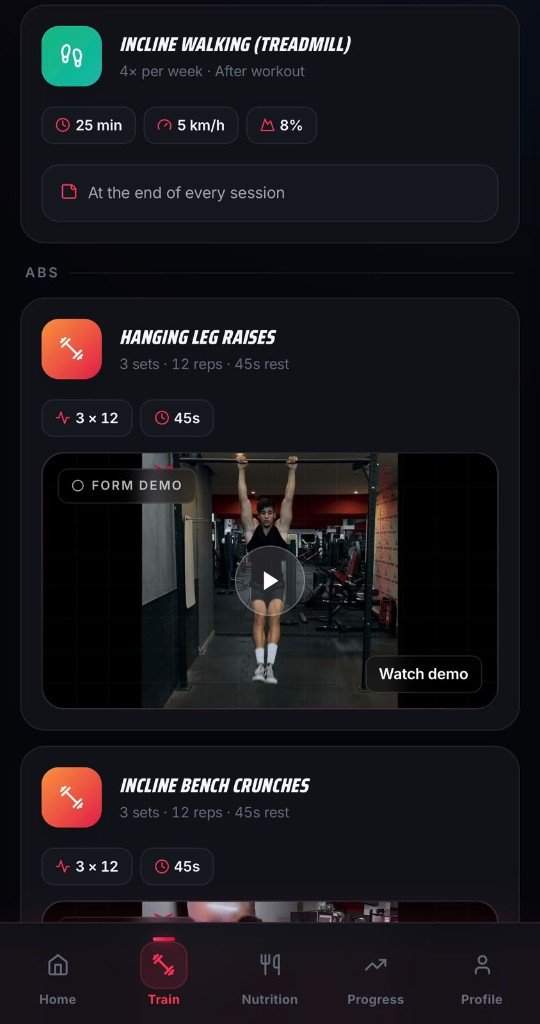
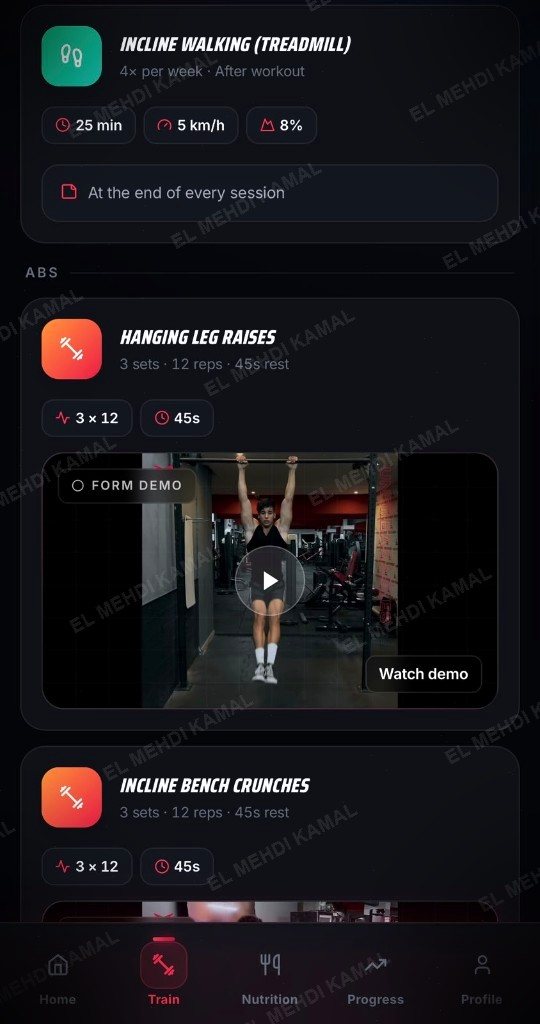
Fix Arabic app-phone label sync, pin framing, and screenshot protection.
Keep carousel order locked so Arabic titles match each screen, pin a stage where the full phone fits, and add light brand watermarks on the app mockups.

Changed region(s): [[0.0593, 0.0, 0.2074, 0.0938], [0.0593, 0.9375, 0.1481, 1.0], [0.8593, 0.9375, 0.9185, 1.0]]

diff --git a/src/components/sections/AppPhonesSection.tsx b/src/components/sections/AppPhonesSection.tsx
@@ -23,7 +23,9 @@ const copy = {
   },
   lead: {
     en: "Most coaches hand you a PDF and disappear. I write the plan and check in with you every day. The app is where you see training, meals, and progress in one place.",
-    ar: isolateLatin("الأغلبية ديال les coachs كيعطيوك PDF وكيخليوك بوحدك. أنا اللي كنقاد البرنامج وكنتابع معاك نهار بنهار. التطبيق غير بلاصة كتلقا فيها التمارين، الماكلة والتقدم ديالك."),
+    ar: isolateLatin(
+      "الأغلبية ديال les coachs كيعطيوك PDF وكيخليوك بوحدك. أنا اللي كنقاد البرنامج وكنتابع معاك نهار بنهار. التطبيق غير بلاصة كتلقا فيها التمارين، الماكلة والتقدم ديالك."
+    ),
     fr: "Une expérience fluide: on suit tes PRs, milestones, poids, photos hebdo, volume d’entraînement et progrès musculaire.",
   },
 } as const;
@@ -32,38 +34,41 @@ const AppPhonesSection = () => {
   const { language, isRTL } = useLanguage();
   const lang = language as "en" | "ar" | "fr";
   const rootRef = useRef<HTMLElement>(null);
+  const pinRef = useRef<HTMLDivElement>(null);
   const trackRef = useRef<HTMLDivElement>(null);
   const [active, setActive] = useState(0);
 
   useEffect(() => {
     const root = rootRef.current;
+    const pin = pinRef.current;
     const track = trackRef.current;
-    if (!root || !track) return;
+    if (!root || !pin || !track) return;
 
     const { gsap, ScrollTrigger } = getGsap();
     const softMotion = prefersReducedMotion();
 
     const ctx = gsap.context(() => {
       const getTravel = () => {
-        // Always move enough to bring the last phone into view
         const overflow = track.scrollWidth - window.innerWidth;
-        return Math.max(overflow + 24, track.scrollWidth * 0.55);
+        return Math.max(overflow + 48, 1);
       };
 
       gsap.set(track, { x: 0, force3D: true });
 
+      // Pin only the phones stage so the full phone frame fits in view.
+      // Keep carousel order LTR in every language so labels always match images
+      // (page dir=rtl was reversing tabs/track independently before).
       const st = ScrollTrigger.create({
-        trigger: root,
+        trigger: pin,
         start: "top top",
-        end: () => `+=${Math.max(getTravel() * 1.25, window.innerHeight * 1.8)}`,
+        end: () => `+=${Math.max(getTravel() * 1.15, window.innerHeight * 1.35)}`,
         pin: true,
-        scrub: softMotion ? 0.2 : 0.7,
+        scrub: softMotion ? 0.2 : 0.65,
         anticipatePin: 1,
         invalidateOnRefresh: true,
         onUpdate: (self) => {
           const travel = getTravel();
-          const x = (isRTL ? 1 : -1) * travel * self.progress;
-          gsap.set(track, { x, force3D: true });
+          gsap.set(track, { x: -travel * self.progress, force3D: true });
 
           const idx = Math.min(
             SCREENS.length - 1,
@@ -84,14 +89,16 @@ const AppPhonesSection = () => {
         },
       });
 
-      // Ensure measurements after images paint
       const refresh = () => ScrollTrigger.refresh();
       window.addEventListener("load", refresh);
+      const imgs = Array.from(track.querySelectorAll("img"));
+      imgs.forEach((img) => img.addEventListener("load", refresh));
       const t1 = window.setTimeout(refresh, 100);
-      const t2 = window.setTimeout(refresh, 500);
+      const t2 = window.setTimeout(refresh, 600);
 
       return () => {
         window.removeEventListener("load", refresh);
+        imgs.forEach((img) => img.removeEventListener("load", refresh));
         window.clearTimeout(t1);
         window.clearTimeout(t2);
         st.kill();
@@ -99,26 +106,22 @@ const AppPhonesSection = () => {
     }, root);
 
     return () => ctx.revert();
-  }, [language, isRTL]);
+  }, [language]);
 
   const jumpTo = (index: number) => {
     setActive(index);
-    const root = rootRef.current;
-    if (!root) return;
+    const pin = pinRef.current;
+    if (!pin) return;
     const { ScrollTrigger } = getGsap();
-    const st = ScrollTrigger.getAll().find((s) => s.trigger === root);
+    const st = ScrollTrigger.getAll().find((s) => s.trigger === pin);
     if (!st) return;
     const progress = SCREENS.length <= 1 ? 0 : index / (SCREENS.length - 1);
     window.scrollTo({ top: st.start + (st.end - st.start) * progress, behavior: "smooth" });
   };
 
   return (
-    <section
-      id="app"
-      ref={rootRef}
-      className="relative bg-ink border-t border-white/[0.08]"
-    >
-      <div className="px-5 pt-8 pb-3 md:px-10 md:pt-12 lg:px-14">
+    <section id="app" ref={rootRef} className="relative bg-ink border-t border-white/[0.08]">
+      <div className="px-5 pt-8 pb-4 md:px-10 md:pt-12 lg:px-14">
         <div className={`max-w-3xl ${isRTL ? "mr-0 ml-auto text-right" : ""}`}>
           <p className="font-editorial text-[11px] uppercase tracking-[0.2em] text-red-br mb-2">
             {copy.eyebrow[lang]}
@@ -136,58 +139,71 @@ const AppPhonesSection = () => {
             {copy.lead[lang]}
           </p>
         </div>
-
-        <div
-          className={`mt-4 flex flex-wrap gap-2 ${isRTL ? "justify-end" : "justify-start"}`}
-        >
-          {SCREENS.map((screen, i) => (
-            <button
-              key={screen.src}
-              type="button"
-              onClick={() => jumpTo(i)}
-              className={`font-editorial text-[10px] uppercase tracking-[0.16em] px-3 py-2 transition-colors ${
-                active === i
-                  ? "text-white border border-red-br bg-red-br/10"
-                  : "text-white/40 border border-white/10 hover:text-white/70"
-              }`}
-            >
-              {screen.label[lang]}
-            </button>
-          ))}
-        </div>
       </div>
 
-      <div className="relative w-full overflow-hidden pt-4 pb-12 md:pb-16">
-        <div
-          ref={trackRef}
-          className={`flex items-stretch gap-4 md:gap-5 px-5 md:px-10 ${
-            isRTL ? "flex-row-reverse" : ""
-          }`}
-          style={{ width: "max-content", willChange: "transform" }}
-        >
-          {SCREENS.map((screen) => (
-            <figure
-              key={screen.src}
-              data-phone
-              className="relative shrink-0 w-[70vw] sm:w-[210px] md:w-[240px] lg:w-[260px] aspect-[9/19] border border-white/20 bg-black overflow-hidden shadow-2xl shadow-black/50 origin-center"
-              style={{ opacity: 0.85, transform: "scale(1)" }}
-            >
-              <div className="absolute top-1.5 left-1/2 -translate-x-1/2 h-2 w-10 rounded-full bg-black/90 z-10" />
-              <img
-                src={screen.src}
-                alt={screen.label[lang]}
-                className="absolute inset-0 h-full w-full object-cover object-top"
-                loading="eager"
-                decoding="async"
-                draggable={false}
-              />
-              <div className="absolute inset-x-0 bottom-0 h-14 bg-gradient-to-t from-black/90 to-transparent pointer-events-none" />
-              <figcaption className="absolute bottom-2.5 left-1/2 -translate-x-1/2 font-editorial text-[9px] uppercase tracking-[0.16em] text-white/90">
+      <div ref={pinRef} className="relative bg-ink">
+        <div className="px-5 md:px-10 lg:px-14 pb-2">
+          <div
+            className={`flex flex-wrap gap-2 ${isRTL ? "justify-end" : "justify-start"}`}
+            // Keep button order identical to phone order (Home → Photos).
+            style={{ direction: "ltr" }}
+          >
+            {SCREENS.map((screen, i) => (
+              <button
+                key={screen.src}
+                type="button"
+                onClick={() => jumpTo(i)}
+                className={`font-editorial text-[10px] uppercase tracking-[0.16em] px-3 py-2 transition-colors ${
+                  active === i
+                    ? "text-white border border-red-br bg-red-br/10"
+                    : "text-white/40 border border-white/10 hover:text-white/70"
+                }`}
+              >
                 {screen.label[lang]}
-              </figcaption>
-            </figure>
-          ))}
-          <div className="shrink-0 w-[35vw] md:w-[40vw]" aria-hidden />
+              </button>
+            ))}
+          </div>
+        </div>
+
+        <div className="relative w-full overflow-hidden pt-3 pb-8 md:pb-12">
+          <div
+            ref={trackRef}
+            className="flex items-end gap-4 md:gap-5 px-5 md:px-10"
+            style={{ width: "max-content", willChange: "transform", direction: "ltr" }}
+          >
+            {SCREENS.map((screen) => (
+              <figure
+                key={screen.src}
+                data-phone
+                className="relative shrink-0 h-[min(68vh,560px)] aspect-[9/19] border border-white/20 bg-black overflow-hidden shadow-2xl shadow-black/50 origin-center select-none"
+                style={{ opacity: 0.85, transform: "scale(1)" }}
+                onContextMenu={(e) => e.preventDefault()}
+              >
+                <div className="absolute top-1.5 left-1/2 -translate-x-1/2 h-2 w-10 rounded-full bg-black/90 z-20" />
+                <img
+                  src={screen.src}
+                  alt={screen.label[lang]}
+                  className="absolute inset-0 h-full w-full object-cover object-top pointer-events-none"
+                  loading="eager"
+                  decoding="async"
+                  draggable={false}
+                />
+                {/* Soft brand veil — harder to lift a clean screenshot */}
+                <div
+                  className="absolute inset-0 z-10 pointer-events-none mix-blend-soft-light opacity-40"
+                  style={{
+                    background:
+                      "radial-gradient(ellipse at 30% 20%, rgba(220,38,38,0.18), transparent 45%), linear-gradient(160deg, rgba(0,0,0,0.05), rgba(0,0,0,0.25))",
+                  }}
+                />
+                <div className="absolute inset-x-0 bottom-0 h-16 bg-gradient-to-t from-black/95 via-black/50 to-transparent pointer-events-none z-10" />
+                <figcaption className="absolute bottom-2.5 left-1/2 -translate-x-1/2 z-20 font-editorial text-[9px] uppercase tracking-[0.16em] text-white/90">
+                  {screen.label[lang]}
+                </figcaption>
+              </figure>
+            ))}
+            <div className="shrink-0 w-[28vw] md:w-[32vw]" aria-hidden />
+          </div>
         </div>
       </div>
     </section>
